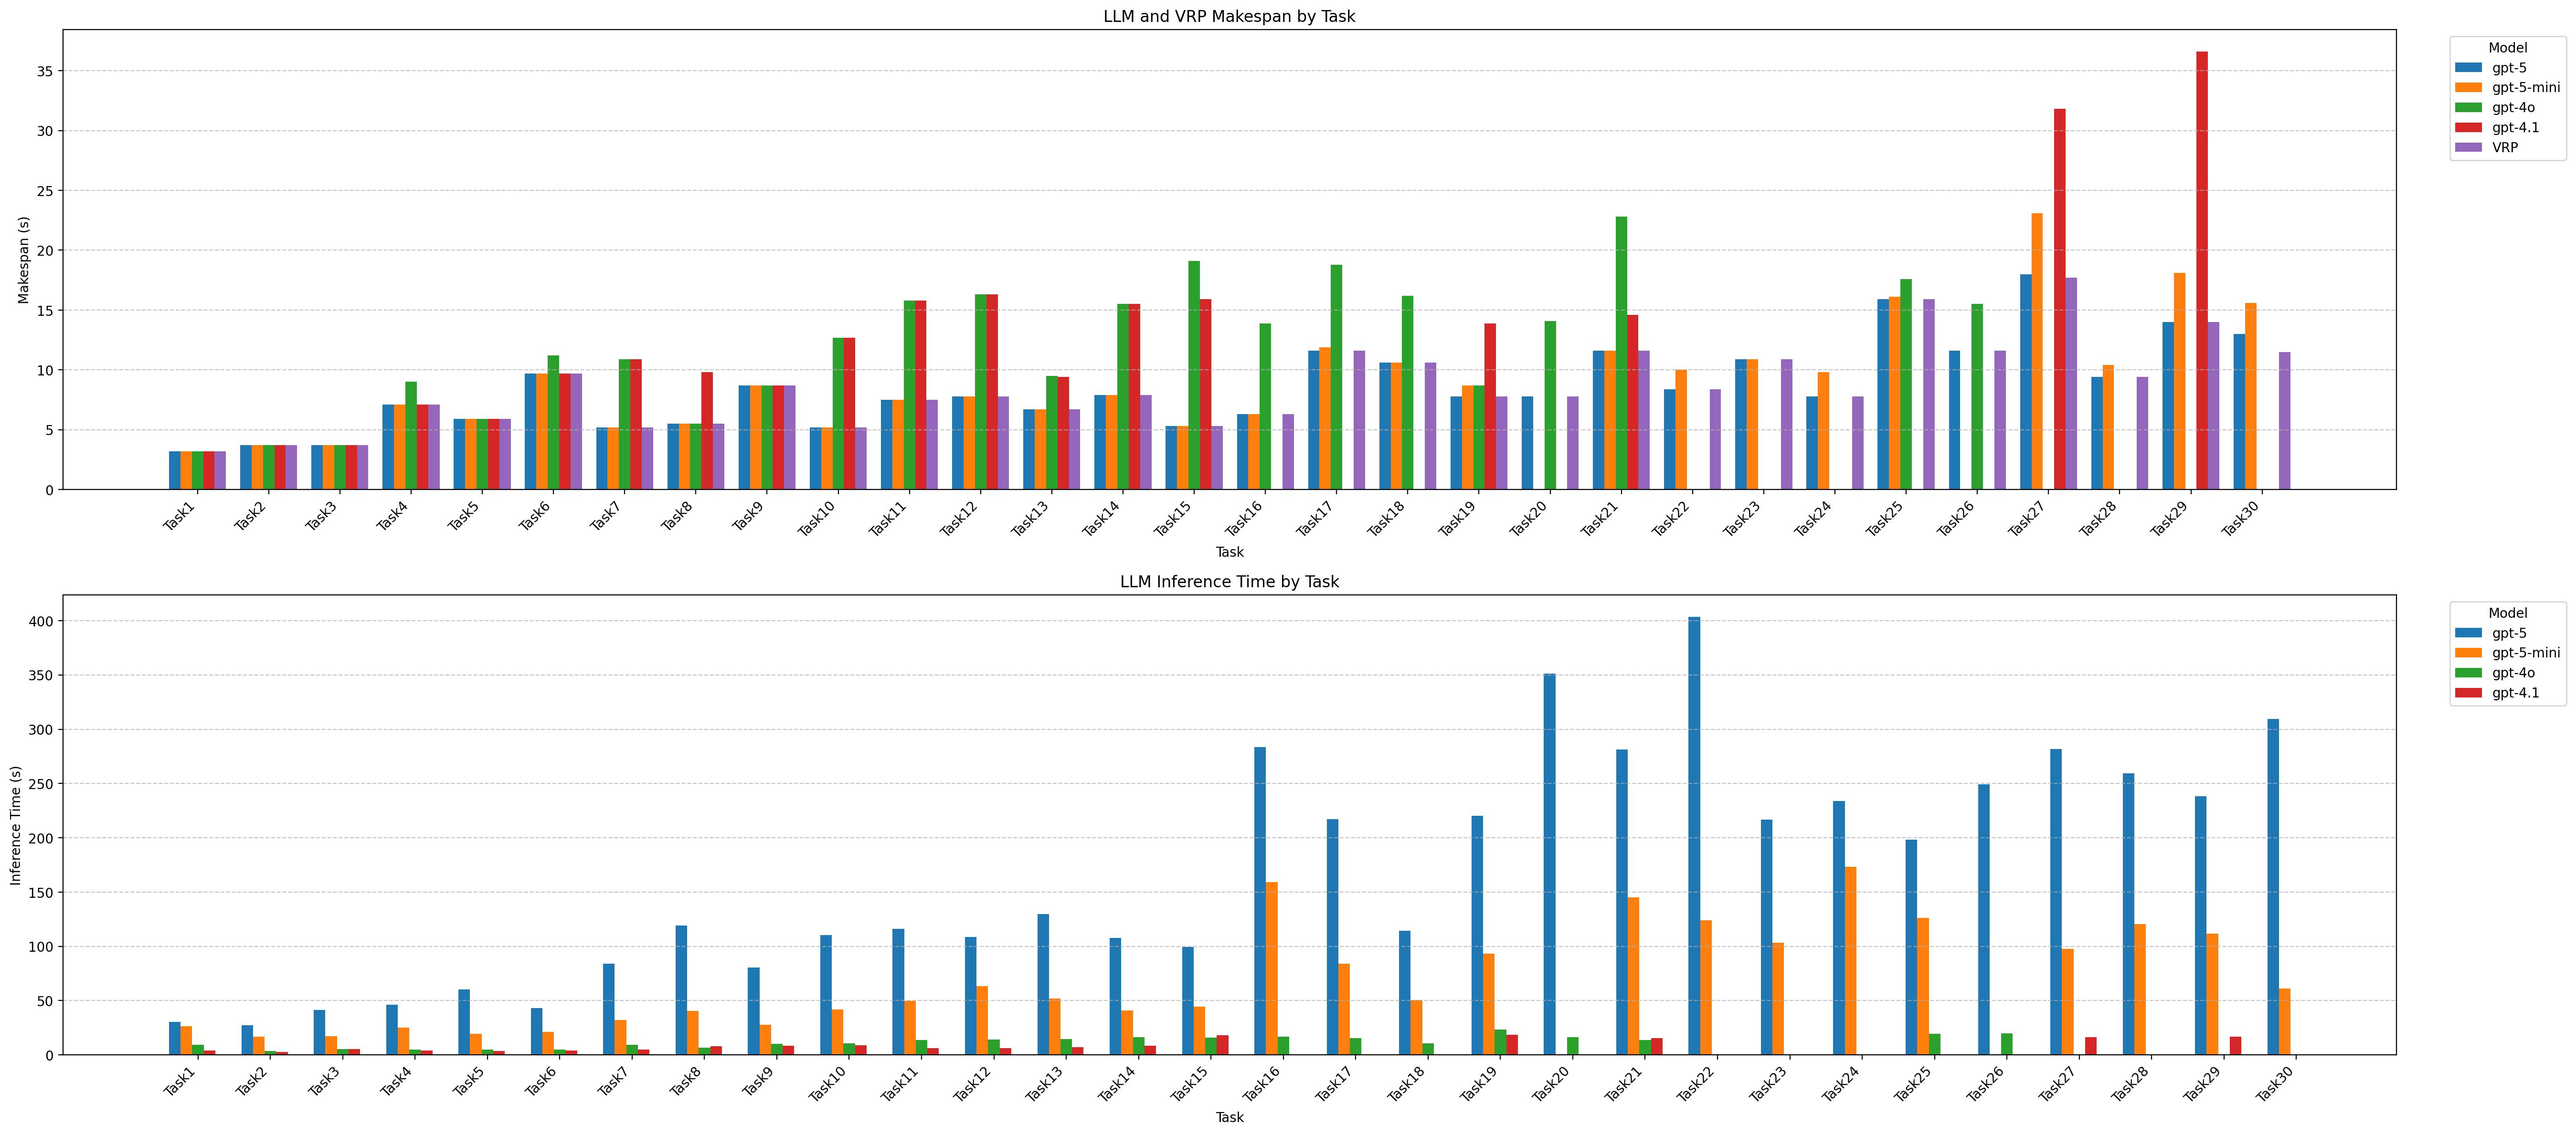
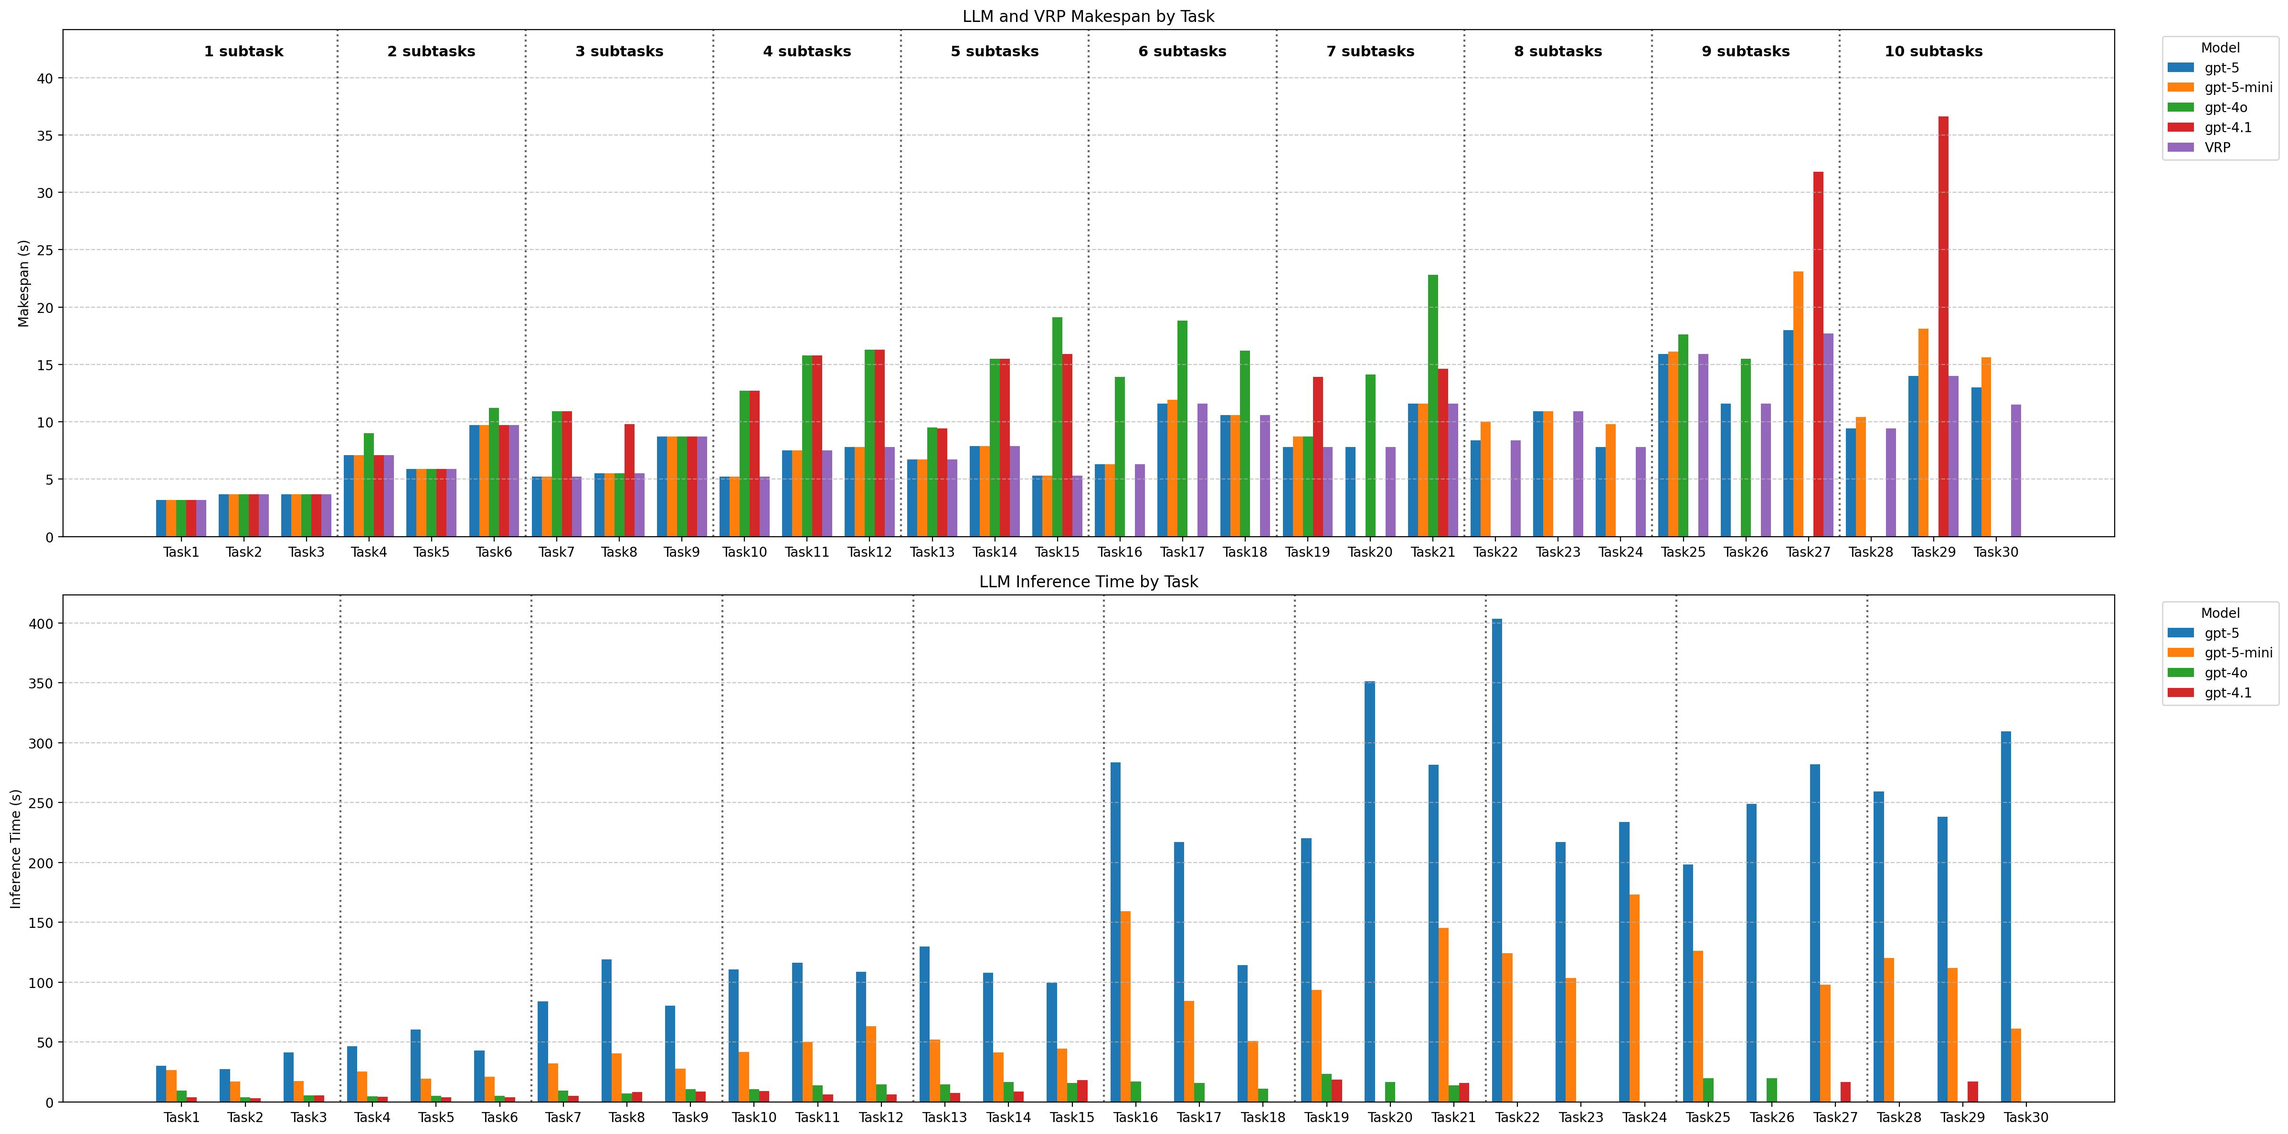
Add ST number to visual

diff --git a/results/visualize.py b/results/visualize.py
@@ -4,85 +4,160 @@ import matplotlib.pyplot as plt
 import os
 import re
 
+# ===================== Load data =====================
+
 csv_path = os.path.join("results", "test_results.csv")
 df = pd.read_csv(csv_path)
 
-# For VRP makespan, it is the same per task regardless of model; take a single value per task
 vrp_per_task = df.groupby("task_id")["VRP_makespan"].first()
 
+# ===================== Helpers =====================
+
 def natural_sort_key(s):
-    # Extract number from string
     match = re.search(r'\d+', str(s))
     return int(match.group())
 
-# Sort tasks
+def task_number(task_id):
+    return int(re.search(r'\d+', task_id).group())
+
+def num_subtasks(task_id):
+    return (task_number(task_id) - 1) // 3 + 1
+
+# ===================== Pivot tables =====================
+
 llm_pivot = df.pivot_table(
-    index="task_id", columns="model", values="LLM_makespan", aggfunc="first"
+    index="task_id",
+    columns="model",
+    values="LLM_makespan",
+    aggfunc="first"
 )
-llm_pivot = llm_pivot.reindex(sorted(llm_pivot.index, key=natural_sort_key))
+
+llm_pivot = llm_pivot.reindex(
+    sorted(llm_pivot.index, key=natural_sort_key)
+)
 
 desired_order = ["gpt-5", "gpt-5-mini", "gpt-4o", "gpt-4.1"]
-
-# Reorder columns accordingly
 llm_pivot = llm_pivot[desired_order]
 
-# Assemble plotting dataset by concatenating LLM models (in order) plus one VRP column
 plot_df = llm_pivot.copy()
 plot_df["VRP"] = vrp_per_task.reindex(plot_df.index)
 
-# Inference time
+# ===================== Inference time =====================
 
-# Pivot inference times
 inference_pivot = df.pivot_table(
-    index="task_id", columns="model", values="LLM_inference_time", aggfunc="first"
+    index="task_id",
+    columns="model",
+    values="LLM_inference_time",
+    aggfunc="first"
 )
 
-# Apply same sorting logic as before
-inference_pivot = inference_pivot.reindex(sorted(inference_pivot.index, key=natural_sort_key))
+inference_pivot = inference_pivot.reindex(
+    sorted(inference_pivot.index, key=natural_sort_key)
+)
 inference_pivot = inference_pivot[desired_order]
 
-# ===== Plotting =====
+# ===================== Plotting =====================
 
 fig, axes = plt.subplots(
-    2, 1, figsize=(max(8, plot_df.shape[0] * 0.9), 12),
+    2, 1,
+    figsize=(max(10, plot_df.shape[0] * 0.8), 12),
     sharex=False
 )
 
-# ===== UPPER: LLM vs VRP Makespan =====
-ax = axes[0]
 n_tasks = plot_df.shape[0]
 n_series = plot_df.shape[1]
 x = np.arange(n_tasks)
 width = 0.8 / n_series
+tasks = plot_df.index.tolist()
+
+# ===== UPPER: Makespan =====
+ax = axes[0]
 
 for i, col in enumerate(plot_df.columns):
-    ax.bar(x + i * width - (n_series - 1) * width / 2,
-           plot_df[col].values, width, label=str(col))
+    ax.bar(
+        x + i * width - (n_series - 1) * width / 2,
+        plot_df[col].values,
+        width,
+        label=str(col)
+    )
 
 ax.set_xticks(x)
-ax.set_xticklabels(plot_df.index.astype(str), rotation=45, ha="right")
-ax.grid(True, axis="y", linestyle="--", alpha=0.7)
-ax.set_xlabel("Task")
+ax.set_xticklabels(tasks)
 ax.set_ylabel("Makespan (s)")
 ax.set_title("LLM and VRP Makespan by Task")
+ax.grid(True, axis="y", linestyle="--", alpha=0.7)
 ax.legend(title="Model", bbox_to_anchor=(1.02, 1), loc="upper left")
 
-# ===== LOWER: LLM-only Inference/Makespan =====
+# ===== LOWER: Inference Time =====
 ax2 = axes[1]
-plot_df_lower = inference_pivot.copy()  # LLM-only (no VRP)
 
-for i, col in enumerate(plot_df_lower.columns):
-    ax2.bar(x + i * width - (n_series - 1) * width / 2,
-            plot_df_lower[col].values, width, label=str(col))
+for i, col in enumerate(inference_pivot.columns):
+    ax2.bar(
+        x + i * width - (n_series - 1) * width / 2,
+        inference_pivot[col].values,
+        width,
+        label=str(col)
+    )
 
 ax2.set_xticks(x)
-ax2.set_xticklabels(plot_df_lower.index.astype(str), rotation=45, ha="right")
-ax2.grid(True, axis="y", linestyle="--", alpha=0.7)
-ax2.set_xlabel("Task")
+ax2.set_xticklabels(tasks)
 ax2.set_ylabel("Inference Time (s)")
 ax2.set_title("LLM Inference Time by Task")
+ax2.grid(True, axis="y", linestyle="--", alpha=0.7)
 ax2.legend(title="Model", bbox_to_anchor=(1.02, 1), loc="upper left")
 
+# ===================== Subtask grouping visuals =====================
+
+current_bottom, current_top = ax.get_ylim()
+ax.set_ylim(current_bottom, current_top * 1.15)
+
+max_y = ax.get_ylim()[1]
+
+current_subtask = None
+group_start = 0
+
+for i, task in enumerate(tasks):
+    s = num_subtasks(task)
+
+    # Vertical separator at group boundary
+    if current_subtask is not None and s != current_subtask:
+        ax.axvline(i - 0.5, color="black", linestyle=":", alpha=0.6)
+        ax2.axvline(i - 0.5, color="black", linestyle=":", alpha=0.6)
+
+        center = (group_start + i - 1) / 2
+        ax.text(
+            center,
+            max_y * 0.97,
+            f"{current_subtask} subtask{'s' if current_subtask > 1 else ''}",
+            ha="center",
+            va="top",
+            fontsize=11,
+            fontweight="bold"
+        )
+
+        group_start = i
+
+    current_subtask = s
+
+# Last group label
+center = (group_start + len(tasks) - 1) / 2
+ax.text(
+    center,
+    max_y * 0.97,
+    f"{current_subtask} subtask{'s' if current_subtask > 1 else ''}",
+    ha="center",
+    va="top",
+    fontsize=11,
+    fontweight="bold"
+)
+
+# ===================== Save =====================
+
+os.makedirs(os.path.join("results", "visuals"), exist_ok=True)
 fig.tight_layout()
-fig.savefig(os.path.join("results", "visuals", "llm_combined_plots.jpg"), dpi=200, bbox_inches="tight")
+fig.savefig(
+    os.path.join("results", "visuals", "llm_combined_plots.jpg"),
+    dpi=200,
+    bbox_inches="tight"
+)
 plt.close(fig)
